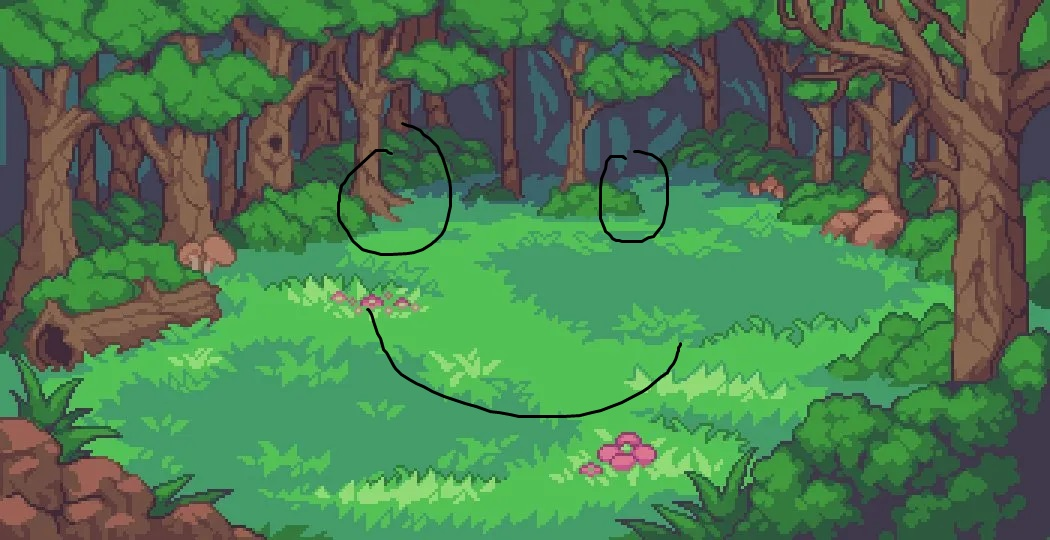
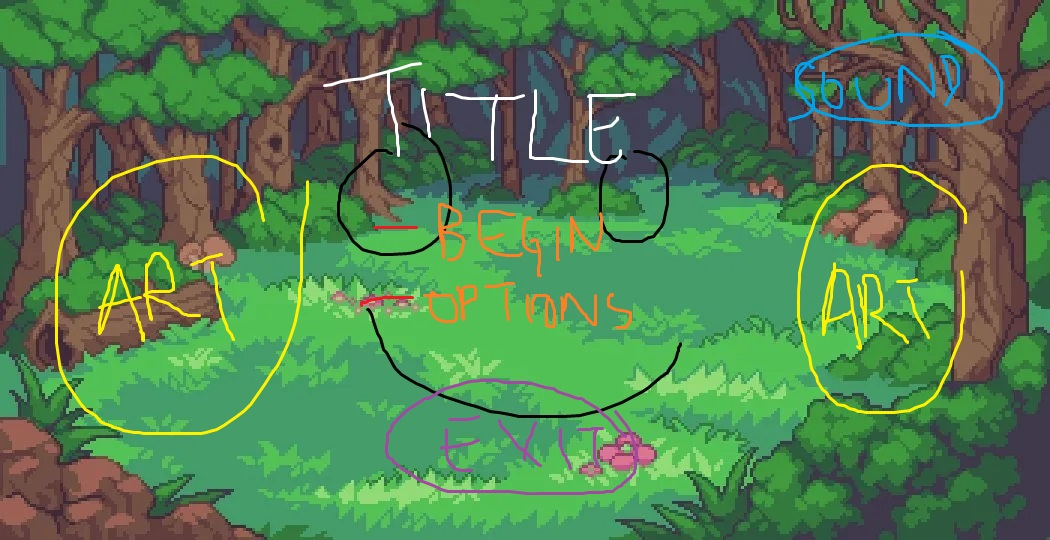
homepage updates

diff --git a/animation.py b/animation.py
@@ -66,6 +66,23 @@ path = 'mainmenu'
 audio = 'home'
 mainscreen = 'startup'
 l=[]
+lvol=[]
+
+#Volume 
+sppath = 'speaker'
+vol = 0.2
+
+#Sounds
+sel_sound = pygame.mixer.Sound("assets\\audio\\select.mp3")
+
+#Buttons
+start_b = pygame.image.load(f"assets\\gui\\begin.png").convert_alpha()
+start_b = pygame.transform.scale(start_b,(275,100))
+options_b = pygame.image.load(f"assets\\gui\\options.png").convert_alpha()
+options_b = pygame.transform.scale(options_b,(275,100))
+exit_b = pygame.image.load(f"assets\\gui\\exit.png").convert_alpha()
+exit_b = pygame.transform.scale(exit_b,(275,100))
+
 
 #Player Pokemon attack animation
 def attan(x,y,c,s):
@@ -107,24 +124,35 @@ while (running):
     bg_img = pygame.transform.scale(bg_img,(width,height))
     gui = pygame.image.load(f"assets\gui\{path}.png").convert()
     gui = pygame.transform.scale(gui,(1050, 187))
+    speaker = pygame.image.load(f"assets\\audio\\{sppath}.png").convert_alpha()
+    speaker = pygame.transform.scale(speaker,(100,100))
     
     #Setting up game music
     if audio not in l:
         l.clear()
         pygame.mixer.music.load(f'assets\\audio\\{audio}.mp3')
-        pygame.mixer.music.set_volume(0.2)
         pygame.mixer.music.play(-1)
         l.append(audio) 
+    pygame.mixer.music.set_volume(vol)
 
     screen.fill((0,0,0)) #Base Layer    
     screen.blit(bg_img,[0,0]) #Background Image
+    screen.blit(speaker,[900,50]) #Volume
     
+    #Homescreen
+    if mainscreen == 'startup':
+        screen.blit(exit_b,[400,600])
+        screen.blit(start_b,[400,300])
+        screen.blit(options_b,[400,400])
+
     #Player attack event
     if pattack == True:
         if st == False:
             pimageX,pimageY,hasatt,st=attan(pimageX,pimageY,hasatt,st)
         else:
             cimageX,cimageY,hasstag,pattack=stagger(cimageX,cimageY,hasstag,pattack)
+    
+    #Pokemon sprites
     if mainscreen == 'bgimg':
         screen.blit(pkmg2 , [cimageX,cimageY])
         screen.blit(pkmg , [pimageX, pimageY])
@@ -136,35 +164,59 @@ while (running):
 
         if event.type == pygame.MOUSEBUTTONDOWN:
             x, y = event.pos
+            #print('x:',x,',y:',y)
+            #Homepage
+            if mainscreen == 'startup':
+                if x in range(405, 645) and y in range(610, 695):
+                    pygame.mixer.Sound.play(sel_sound)
+                    running = False
+                if x in range(405, 645) and y in range(310,390):
+                    pygame.mixer.Sound.play(sel_sound)
+                    mainscreen = 'bgimg'
+                    audio = 'theme'
+                    path = 'mainmenu'
+            #Volume
+            if x in range(900,960) and y in range(70,130):
+                if vol == 0:
+                    sppath = 'speaker'
+                    vol = 0.2
+                elif vol == 0.2:
+                    pygame.mixer.Sound.play(sel_sound)
+                    sppath = 'speakernt'
+                    vol = 0
+
             #Fight
             if path == 'mainmenu' and (x in range(516,778) and y in range(525,610)):
                 path = 'fight'
             
             if path == 'fight' and ((x in range(55,400) and y in range(555,606)) or (x in range(415,690) and y in range(555,606)) or (x in range(55,400) and y in range(615,665)) or (x in range(415,690) and y in range(615,665))):
+                pygame.mixer.Sound.play(sel_sound)
                 pattack = True
                 st = False
                 hasatt = 1
                 hasstag = 1
 
             #Run
-            if path == 'mainmenu' and (x in range(780,1040) and y in range(608,693)):
+            if path == 'mainmenu' and (x in range(780,1040) and y in range(590,693)):
                 path = 'run'
 
             if path == 'run':
                 if (x in range(518,778) and y in range(565,650)):
-                    running = False
+                    pygame.mixer.Sound.play(sel_sound)
+                    mainscreen = 'startup'
+                    audio = 'home'
                 if (x in range(780,1040) and y in range(565,650)):
+                    pygame.mixer.Sound.play(sel_sound)
                     path = 'mainmenu'
 
         if event.type == pygame.KEYDOWN:
             if event.key == pygame.K_SPACE:
-                mainscreen = 'bgimg'
-                audio = 'theme'
                 if path == 'fight':
                     path = 'mainmenu'
     
     if mainscreen == 'bgimg':
         screen.blit(gui,[0,513])
+
     pygame.display.update()
     fpsClock.tick(200)
 pygame.quit()
